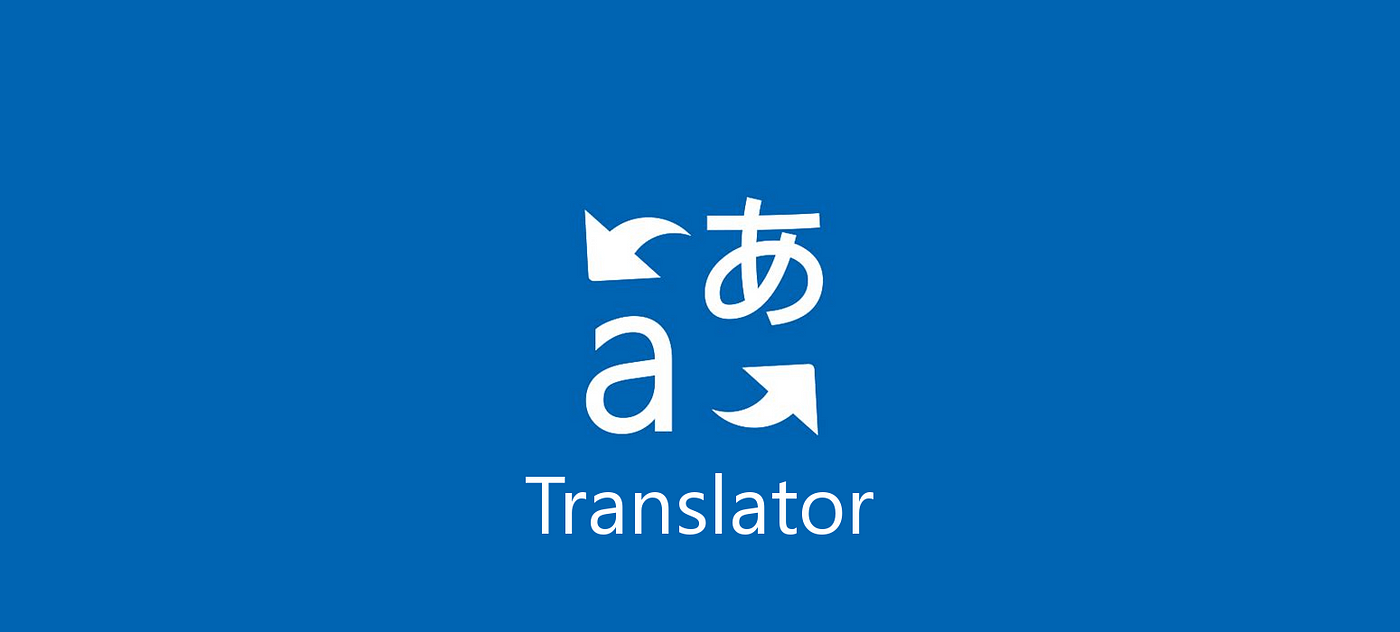
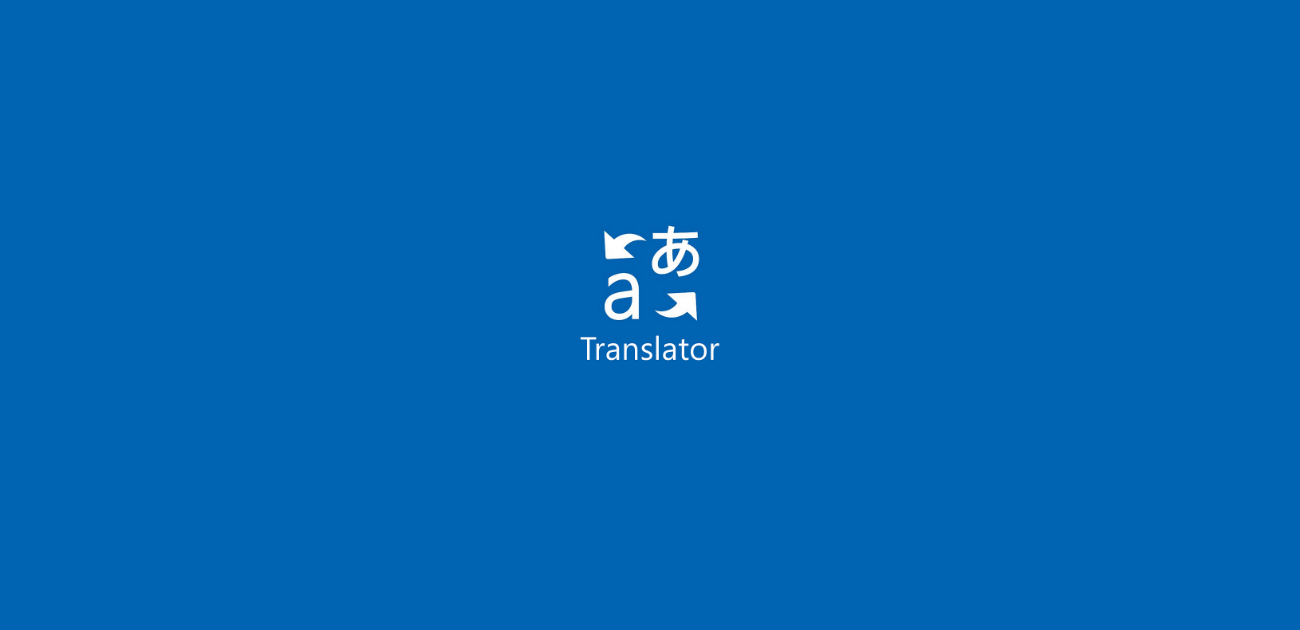
chore: add sponsor and resize bg opengraph and twitter

Changed region(s): [[0.4, 0.3016, 0.6154, 0.6937], [0.3692, 0.754, 0.6154, 0.8444]]

diff --git a/docs/src/components/Form/index.tsx b/docs/src/components/Form/index.tsx
@@ -62,93 +62,97 @@ export default function Form() {
 		<>
 			<form onSubmit={handleSubmit}>
 				<div className="flex flex-col rounded bg-gray-800 p-5 text-white sm:flex-row">
-					<div className="w-full sm:mr-9">
-						<label
-							htmlFor="fromLang"
-							className="block text-sm font-medium text-gray-400"
-						>
-							From
-						</label>
-						<select
-							name="fromLang"
-							id="fromLang"
-							className="w-full cursor-pointer rounded bg-gray-700 p-2 text-white sm:w-40"
-							value={fromLang}
-							onChange={(event) => {
-								setFromLang(event.target.value);
-							}}
-						>
-							<option value="en">English</option>
-							<option value="pt">Portuguese</option>
-							<option value="es">Spanish</option>
-							<option value="fr">French</option>
-							<option value="de">German</option>
-							<option value="it">Italian</option>
-							<option value="ja">Japanese</option>
-							<option value="ko">Korean</option>
-							<option value="ru">Russian</option>
-							<option value="zh-Hans">Chinese Simplified</option>
-							<option value="zh-Hant">Chinese Traditional</option>
-							<option value="ar">Arabic</option>
-							<option value="tr">Turkish</option>
-							<option value="vi">Vietnamese</option>
-							<option value="th">Thai</option>
-							<option value="sv">Swedish</option>
-							<option value="pl">Polish</option>
-							<option value="nl">Dutch</option>
-							<option value="da">Danish</option>
-							<option value="fi">Finnish</option>
-							<option value="no">Norwegian</option>
-							<option value="cs">Czech</option>
-							<option value="hu">Hungarian</option>
-							<option value="el">Greek</option>
-							<option value="id">Indonesian</option>
-							<option value="ms">Malay</option>
-						</select>
+					<div className="w-full">
+						<div className="sm:ml-10">
+							<label
+								htmlFor="fromLang"
+								className="block text-sm font-medium text-gray-400"
+							>
+								From
+							</label>
+							<select
+								name="fromLang"
+								id="fromLang"
+								className="w-full cursor-pointer rounded bg-gray-700 p-2 text-white sm:w-40"
+								value={fromLang}
+								onChange={(event) => {
+									setFromLang(event.target.value);
+								}}
+							>
+								<option value="en">English</option>
+								<option value="pt">Portuguese</option>
+								<option value="es">Spanish</option>
+								<option value="fr">French</option>
+								<option value="de">German</option>
+								<option value="it">Italian</option>
+								<option value="ja">Japanese</option>
+								<option value="ko">Korean</option>
+								<option value="ru">Russian</option>
+								<option value="zh-Hans">Chinese Simplified</option>
+								<option value="zh-Hant">Chinese Traditional</option>
+								<option value="ar">Arabic</option>
+								<option value="tr">Turkish</option>
+								<option value="vi">Vietnamese</option>
+								<option value="th">Thai</option>
+								<option value="sv">Swedish</option>
+								<option value="pl">Polish</option>
+								<option value="nl">Dutch</option>
+								<option value="da">Danish</option>
+								<option value="fi">Finnish</option>
+								<option value="no">Norwegian</option>
+								<option value="cs">Czech</option>
+								<option value="hu">Hungarian</option>
+								<option value="el">Greek</option>
+								<option value="id">Indonesian</option>
+								<option value="ms">Malay</option>
+							</select>
+						</div>
 					</div>
 					<div className="mb-4 mt-5 w-full sm:mb-0 sm:mt-0">
-						<label
-							htmlFor="toLang"
-							className="block text-sm font-medium text-gray-400"
-						>
-							To
-						</label>
-						<select
-							name="toLang"
-							id="toLang"
-							className="w-full cursor-pointer rounded bg-gray-700 p-2 text-white sm:w-40"
-							value={toLang}
-							onChange={(event) => {
-								setToLang(event.target.value);
-							}}
-						>
-							<option value="pt">Portuguese</option>
-							<option value="en">English</option>
-							<option value="es">Spanish</option>
-							<option value="fr">French</option>
-							<option value="de">German</option>
-							<option value="it">Italian</option>
-							<option value="ja">Japanese</option>
-							<option value="ko">Korean</option>
-							<option value="ru">Russian</option>
-							<option value="zh-Hans">Chinese Simplified</option>
-							<option value="zh-Hant">Chinese Traditional</option>
-							<option value="ar">Arabic</option>
-							<option value="tr">Turkish</option>
-							<option value="vi">Vietnamese</option>
-							<option value="th">Thai</option>
-							<option value="sv">Swedish</option>
-							<option value="pl">Polish</option>
-							<option value="nl">Dutch</option>
-							<option value="da">Danish</option>
-							<option value="fi">Finnish</option>
-							<option value="no">Norwegian</option>
-							<option value="cs">Czech</option>
-							<option value="hu">Hungarian</option>
-							<option value="el">Greek</option>
-							<option value="id">Indonesian</option>
-							<option value="ms">Malay</option>
-						</select>
+						<div className="flex flex-col sm:mr-10 sm:items-end">
+							<label
+								htmlFor="toLang"
+								className="block text-sm font-medium text-gray-400"
+							>
+								To
+							</label>
+							<select
+								name="toLang"
+								id="toLang"
+								className="w-full cursor-pointer rounded bg-gray-700 p-2 text-white sm:w-40"
+								value={toLang}
+								onChange={(event) => {
+									setToLang(event.target.value);
+								}}
+							>
+								<option value="pt">Portuguese</option>
+								<option value="en">English</option>
+								<option value="es">Spanish</option>
+								<option value="fr">French</option>
+								<option value="de">German</option>
+								<option value="it">Italian</option>
+								<option value="ja">Japanese</option>
+								<option value="ko">Korean</option>
+								<option value="ru">Russian</option>
+								<option value="zh-Hans">Chinese Simplified</option>
+								<option value="zh-Hant">Chinese Traditional</option>
+								<option value="ar">Arabic</option>
+								<option value="tr">Turkish</option>
+								<option value="vi">Vietnamese</option>
+								<option value="th">Thai</option>
+								<option value="sv">Swedish</option>
+								<option value="pl">Polish</option>
+								<option value="nl">Dutch</option>
+								<option value="da">Danish</option>
+								<option value="fi">Finnish</option>
+								<option value="no">Norwegian</option>
+								<option value="cs">Czech</option>
+								<option value="hu">Hungarian</option>
+								<option value="el">Greek</option>
+								<option value="id">Indonesian</option>
+								<option value="ms">Malay</option>
+							</select>
+						</div>
 					</div>
 				</div>
 				<label

diff --git a/docs/src/app/page.tsx b/docs/src/app/page.tsx
@@ -4,17 +4,33 @@ import Form from "@/components/Form";
 
 export default function Home() {
 	return (
-		<main className="flex min-h-screen flex-col items-center justify-center bg-gray-100 p-2 sm:p-6 md:p-10">
-			<h1 className="mb-4 text-3xl font-bold text-gray-700">In comming ...</h1>
-			<Link
-				className="mb-10 text-blue-500 hover:underline"
-				href={
-					"https://github.com/gabriel-logan/Azure-translator-code/blob/main/README.md"
-				}
-			>
-				For now read the README.md
-			</Link>
-			<div className="mx-auto mt-5 w-full max-w-md rounded bg-white p-5 shadow">
+		<main className="flex min-h-screen flex-col items-center bg-gray-100 p-2 sm:p-6 md:p-10">
+			<h1 className="mb-4 text-3xl font-bold text-gray-700">
+				Azure translator code
+			</h1>
+			<p className="mb-4 text-center text-gray-600">
+				Read the{" "}
+				<Link
+					className="mb-10 text-blue-500 hover:underline"
+					href={
+						"https://github.com/gabriel-logan/Azure-translator-code/blob/main/README.md"
+					}
+					target="_blank"
+				>
+					README.md{" "}
+				</Link>
+				to know how to use the library in your JS/TS project{" "}
+			</p>
+			<p>
+				<iframe
+					src="https://github.com/sponsors/gabriel-logan/button"
+					title="Sponsor gabriel-logan"
+					height="32"
+					width="114"
+					style={{ border: 0, borderRadius: 6 }}
+				/>
+			</p>
+			<div className="mx-auto mt-5 w-full max-w-2xl rounded bg-white p-5 shadow">
 				<h2 className="mb-5 text-2xl font-bold text-black">
 					Test the translator
 				</h2>

diff --git a/docs/src/app/layout.tsx b/docs/src/app/layout.tsx
@@ -13,7 +13,7 @@ export const metadata: Metadata = {
 	),
 
 	title: "Azure Translator Code",
-	description: "Generated by Azure Translator Code",
+	description: "Translate your json file directly in the page",
 	authors: { name: "Gabriel Logan" },
 	classification: "translator",
 	generator: "Next.js",
@@ -22,7 +22,7 @@ export const metadata: Metadata = {
 
 	openGraph: {
 		title: "Azure Translator Code",
-		description: "Generated by Azure Translator Code",
+		description: "Translate your json file directly in the page",
 		url: process.env.NEXT_PUBLIC_WEBSITE_URL,
 		siteName: "Azure Translator Code",
 		type: "website",
@@ -48,6 +48,14 @@ export default function RootLayout({
 		<html lang="en">
 			<body className={inter.className}>
 				{children}
+				<footer>
+					<p className="text-center text-gray-600">
+						Created by{" "}
+						<a className="text-blue-500 hover:underline" href="#">
+							Gabriel Logan &copy; 2024
+						</a>
+					</p>
+				</footer>
 				<Analytics />
 			</body>
 		</html>

diff --git a/docs/src/app/not-found.tsx b/docs/src/app/not-found.tsx
@@ -23,6 +23,20 @@ export default function NotFound() {
 					</Link>
 				</div>
 			</div>
+			<div className="mt-4">
+				<iframe
+					src="https://github.com/sponsors/gabriel-logan/card"
+					title="Sponsor gabriel-logan"
+					height="225"
+					width="600"
+					style={{
+						border: 0,
+						borderRadius: 4,
+						alignSelf: "center",
+						margin: "auto",
+					}}
+				></iframe>
+			</div>
 		</main>
 	);
 }
